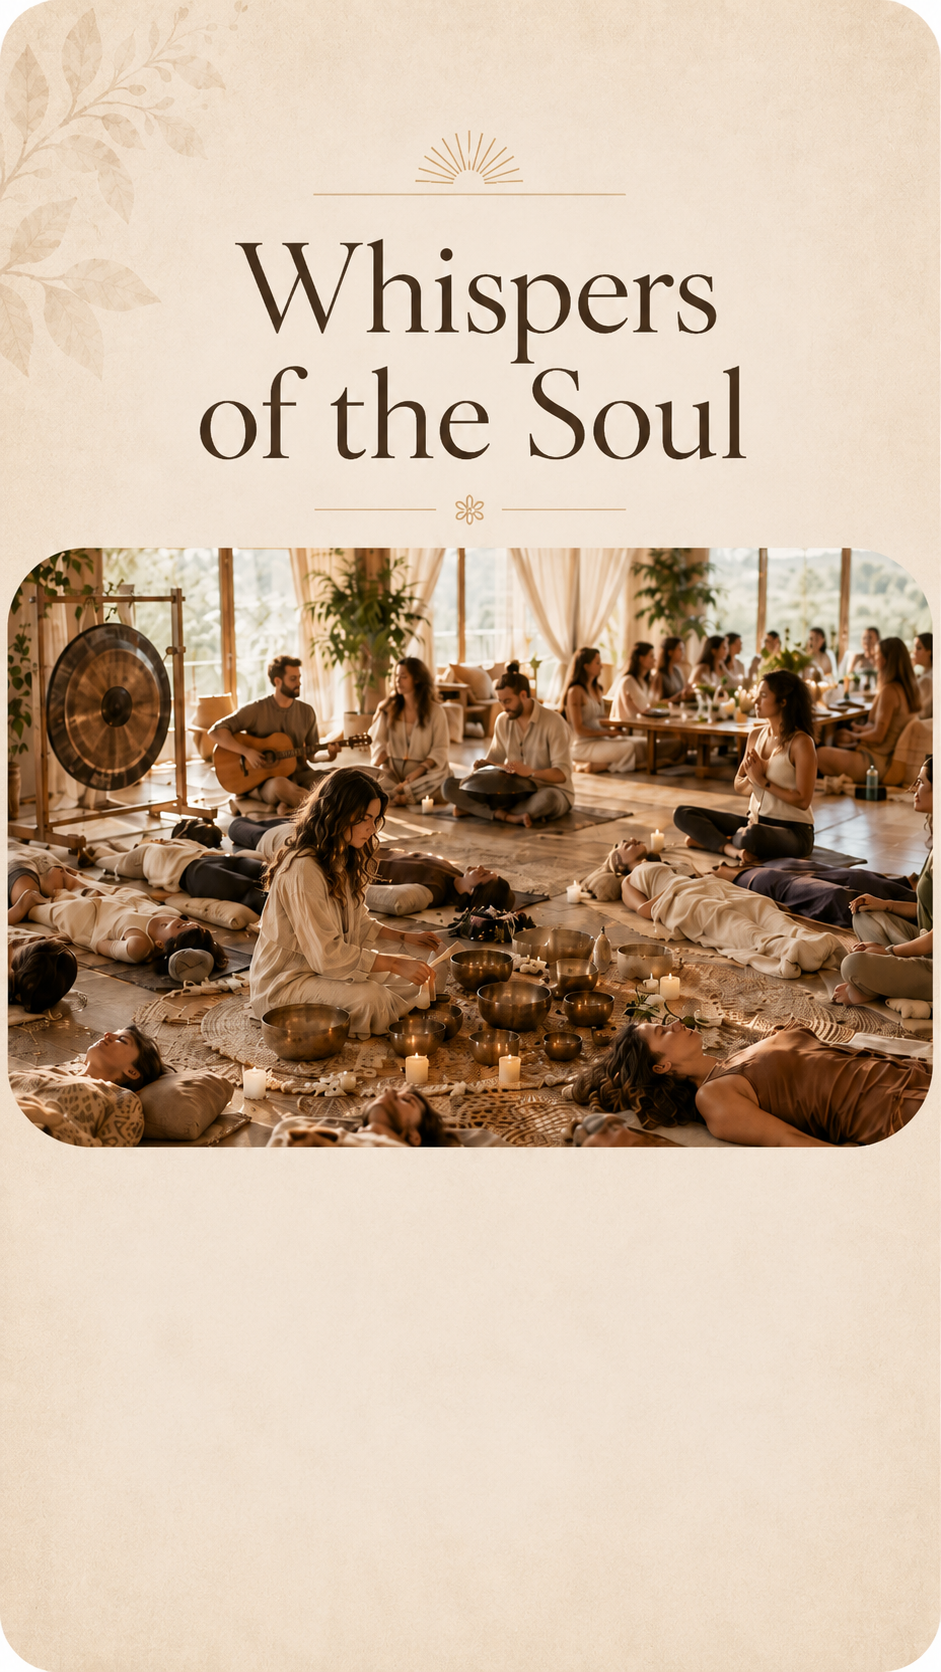
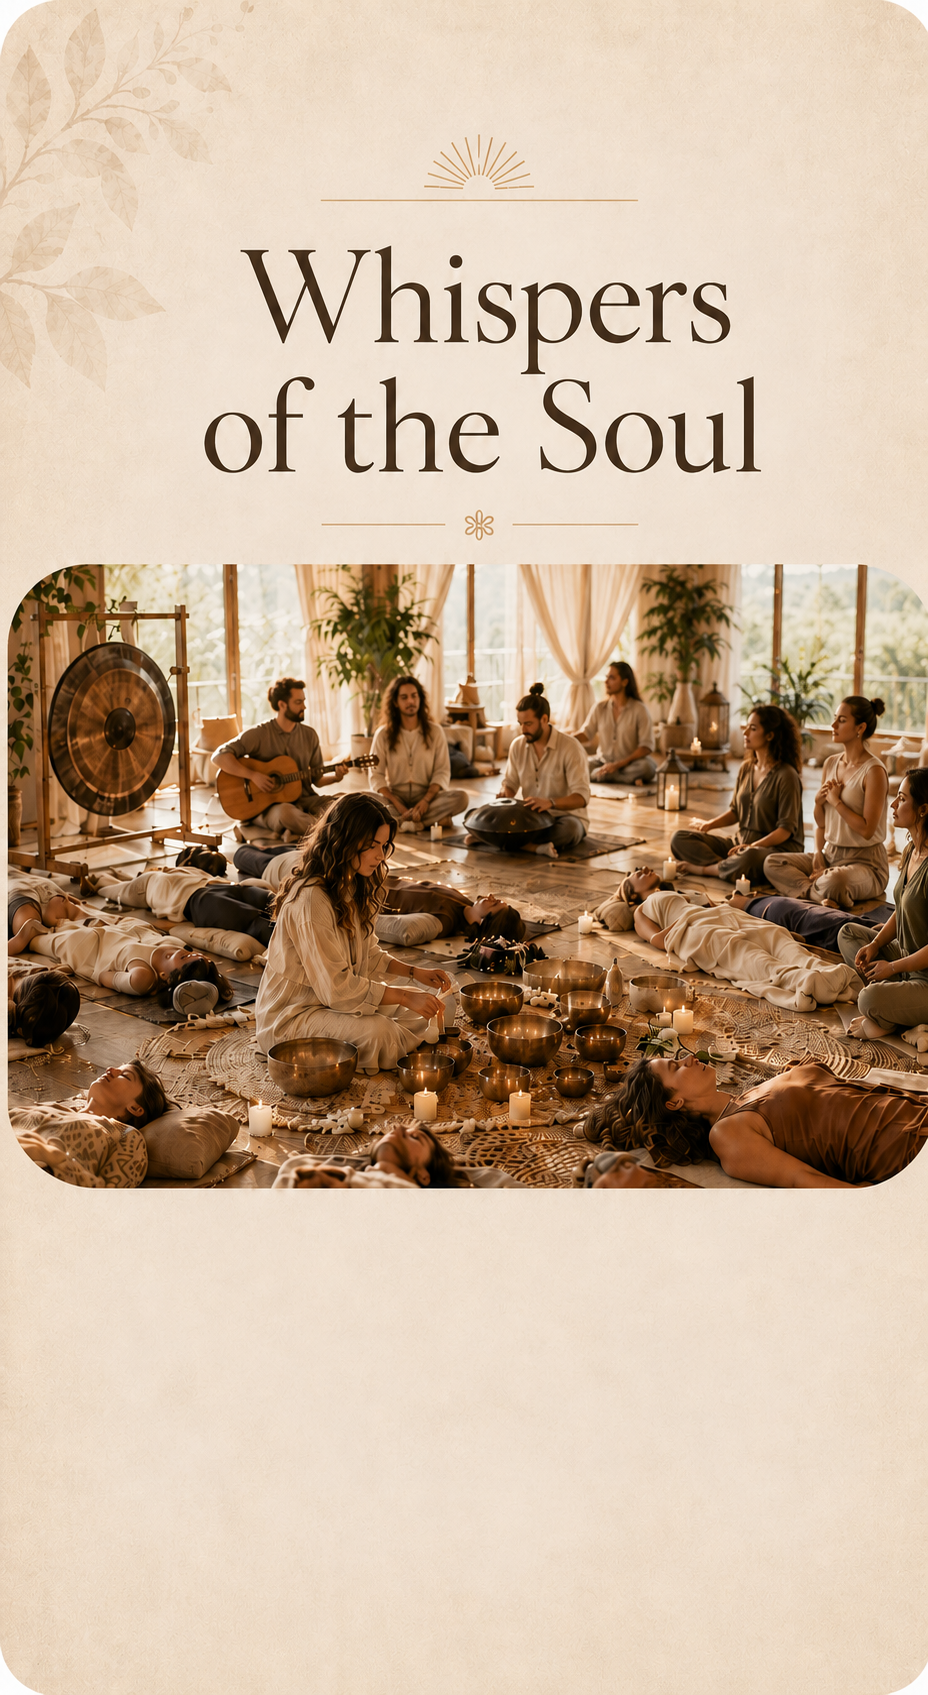
Update retreat pricing section

diff --git a/public/index.html b/public/index.html
@@ -20,7 +20,7 @@
         <!-- Visual title is baked into the hero image; accessible H1 below for SEO/screen readers -->
         <h1 class="visually-hidden">Whispers of the Soul – ריטריט סאונד הילינג, קול, תנועה ונשימה בגליל התחתון</h1>
         <div class="hero-text">
-          <p class="hero-sub">הריטריט שכולם חיכו לו ...<br><span class="hero-topics">סדנאות סאונד הילינג <span class="topic-sep">•</span> קול <span class="topic-sep">•</span> תנועה <span class="topic-sep">•</span> נשימה</span></p>
+          <p class="hero-sub"><b>סוף שבוע של שקט, נשימה וחיבור לעצמכם</b><span class="hero-topics"><br>סדנאות סאונד הילינג <span class="topic-sep">•</span> קול <span class="topic-sep">•</span> תנועה <span class="topic-sep">•</span> נשימה</span></p>
           <p class="hero-desc">מרחב עדין של חיבור, מנוחה והקשבה פנימה</p>
 
           <div class="hero-meta">
@@ -78,8 +78,8 @@
       <div class="container">
         <div class="intro-inner">
           <h2>לפעמים הגוף יודע לפני שהמחשבה מבינה</h2>
-          <p>ריטריט Whispers of the Soul הוא סוף שבוע של סאונד הילינג, קול, תנועה ונשימה מודעת בגליל התחתון. מרחב אינטימי לנשים וגברים שמבקשים לעצור, לנוח, להתחבר לגוף ולחזור הביתה עם יותר שקט פנימי.</p>
-          <p>דרך צלילים, קול, תנועה רכה ונשימה — הגוף מוצא את הדרך שלו להרפות. המערכת העצבית מתאפסת. משהו נפתח.</p>
+          <p> Whispers of the Soul הוא ריטריט סאונד הילינג, קול, תנועה ונשימה בגליל התחתון. מרחב עדין שבו אפשר לעצור את הקצב, לנשום, להרפות ולפגוש מחדש את מה שכבר נמצא בפנים: שקט, חופש, רוח וחיבור לעצמנו.</p>
+          <p>זהו זמן להיות בלי למהר, בלי להספיק, בלי להחזיק הכל. רק להגיע, לנוח, להקשיב, ולתת לגוף, לצליל ולנשימה להוביל.</p>
           <p class="intro-closing">אין צורך בניסיון קודם. רק בנכונות להגיע.</p>
         </div>
       </div>
@@ -206,7 +206,7 @@
             </div>
             <div class="facilitator-text">
               <h3>שקד</h3>
-              <p>מנחת סאונד הילינג עם שנות ניסיון בליווי אנשים דרך צלילים ונשימה. הגישה שלה עדינה, ישירה ומבוססת על הקשבה עמוקה לגוף ולתחושות.</p>
+              <p>מנחת סדנאות סאונד הילינג ותרפיסטית דרך קול ותנועה.  מאמינה שהביטוי שלנו הוא הריפוי שלנו ומלווה אנשים דרך לביטוי והגשמה עצמית.  שרה ויוצרת שירים מקוריים.</p>
             </div>
           </div>
           <div class="facilitator-card">
@@ -216,7 +216,7 @@
             </div>
             <div class="facilitator-text">
               <h3>מור</h3>
-              <p>מנחת קול, תנועה ונשימה עם ניסיון עשיר בעבודה עם הגוף ועם הקול כמרחב לשחרור, ביטוי אישי וחזרה פנימה.</p>
+              <p>בת 46, נשואה ואמא לשלושה.  מעל 15 שנים צועדת בשבילי הרוח, הריפוי הטבעי, ההתפתחות האישית , היוגה והמדיטציה.  מורה להאטה, ראג'ה וקונדליני יוגה, מטפלת בשיטת אייפק משולב תודעה.  יוצרת מרחבים שיש בהם טרנספורמציה וריפוי מהשורש, מקימת קהילות נשים, מעבירה סדנאות ותמיד מגיעה עם לב פתוח והקשבה מלאה לרגע הזה</p>
             </div>
           </div>
           <div class="facilitator-card">
@@ -249,7 +249,7 @@
         <div class="venue-inner">
           <div class="venue-text">
             <h2>המקום</h2>
-            <p>הריטריט מתקיים בסביבה שקטה ומכילה, הרחק מהרעש היומיומי.<br>מקום שמרגיש כמו נשימה ארוכה.</p>
+            <p> הריטריט מתקיים במקום שקט בליבנים, מול נוף פתוח ובמרחק נגיעה מהכנרת, כזה שמאפשר כבר מהרגע הראשון להאט את הקצב, לנשום עמוק ולהרגיש שהיומיום נשאר קצת מאחור.</p>
             <ul class="venue-list">
               <li>
                 <a href="https://maps.app.goo.gl/iQgxyH6PDdkLcmp38"
@@ -309,19 +309,18 @@
     <section class="section pricing-section" id="pricing">
       <div class="container">
         <div class="section-head">
-          <h2>מחיר</h2>
-          <p>ריטריט איכותי ואינטימי - מספר מקומות מוגבל.</p>
+          <h2>מחירים</h2>
+          <p> מספר מקומות מוגבל.</p>
         </div>
               
-        <div class="pricing-payment">
-          <p class="pricing-payment-note">לאחר מילוי טופס ההרשמה, ניתן לבחור את אפשרות הלינה ולהסדיר תשלום בקישור המאובטח.</p>
-          <a href="https://meshulam.co.il/quick_payment?b=f92ba7b289bad2bb7f49efb7beba599f"
-             target="_blank" rel="noopener noreferrer"
-             class="btn btn-primary">
-            לבחירת אפשרות לינה ותשלום
-          </a>
-        </div>
+        <img
+          src="./images/prices.png"
+          alt="אפשרויות לינה ומחירי הריטריט"
+          style="display:block;margin:0 auto;width:100%;max-width:700px;"
+        />
+        <p>קישור לתשלום ישלח בהרשמה !!!</p>
       </div>
+      
     </section>
 
     <!-- ========== FAQ ========== -->

diff --git a/public/styles.css b/public/styles.css
@@ -179,7 +179,7 @@ ul { margin: 0; padding: 0; }
 }
 
 .hero-sub {
-  font-size: clamp(1.2rem, 3vw, 1.45rem);
+  font-size: clamp(18px, 2vw, 28px);
   font-weight: 600;
   margin: 0;
   line-height: 1.5;

diff --git a/styles.css b/styles.css
@@ -168,7 +168,7 @@ ul { margin: 0; padding: 0; }
 }
 
 .hero-sub {
-  font-size: clamp(1.05rem, 2.5vw, 1.25rem);
+  font-size: clamp(14px, 2vw, 20px);
   font-weight: 600;
   margin: 0;
 }
